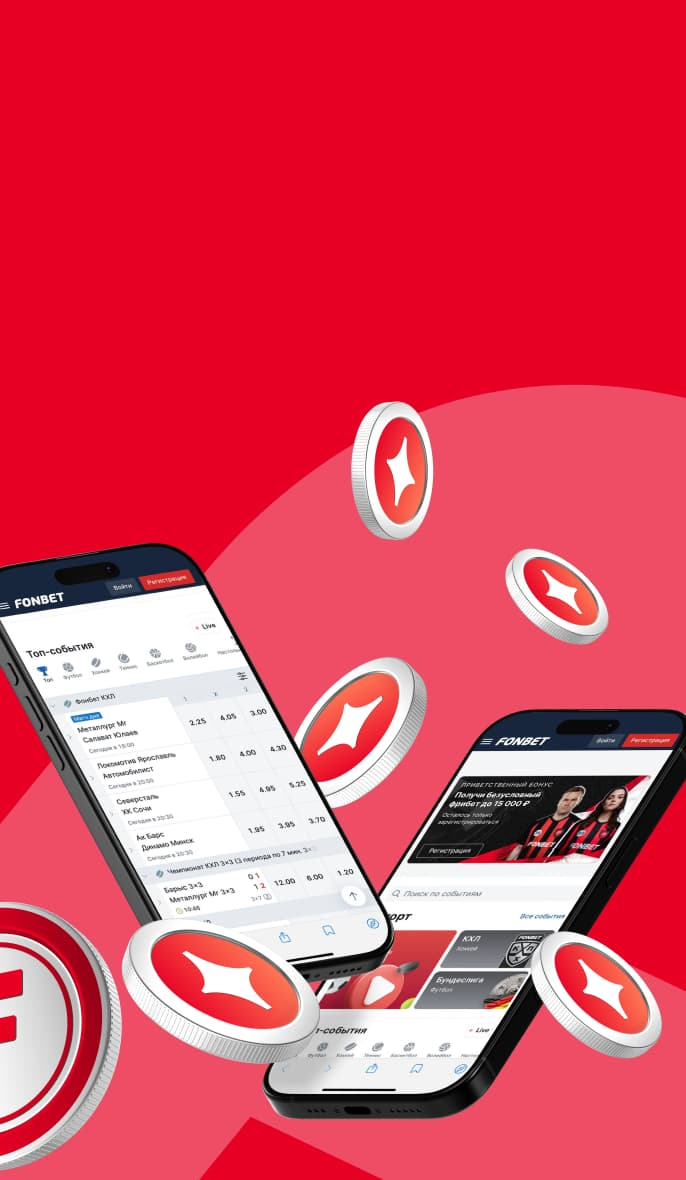
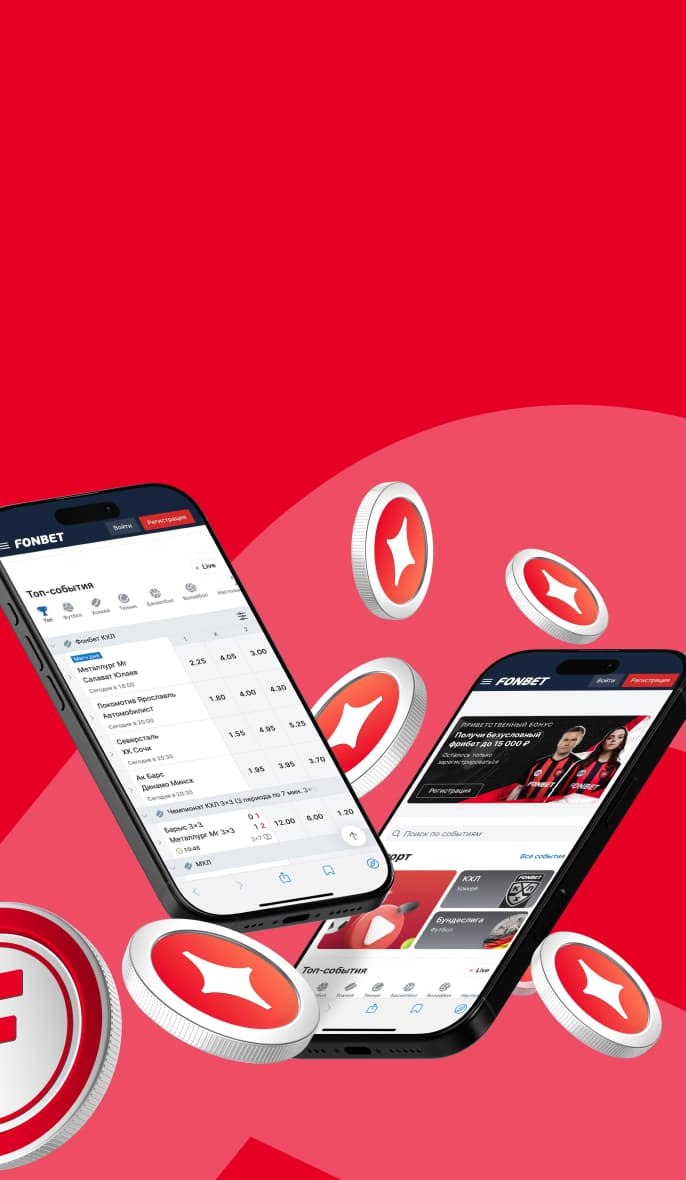
feat: update promo card

Changed region(s): [[0.0, 0.3051, 1.0, 1.0], [0.9184, 0.8237, 1.0, 0.8542], [0.2755, 0.9763, 0.3367, 1.0]]

diff --git a/src/scss/components/block/_b-promo.scss b/src/scss/components/block/_b-promo.scss
@@ -8,7 +8,7 @@
 .b-promo__card {
   position: relative;
   width: 343rem;
-  height: 440rem;
+  height: 480rem;
   overflow: hidden;
   font-size: 24rem;
   line-height: 1.1;
@@ -18,7 +18,7 @@
   border-radius: 14rem;
   @include desktop {
     width: 100%;
-    height: 380rem;
+    height: 400rem;
     font-size: 32rem;
   }
 }
@@ -32,14 +32,15 @@
     width: 100%;
     height: 100%;
     object-fit: cover;
+    object-position: top;
   }
   .desktop {
     display: none;
   }
   @include desktop {
-    img {
-      object-position: top;
-    }
+    // img {
+    //   object-position: top;
+    // }
     .mobile {
       display: none;
     }
@@ -71,14 +72,26 @@
     line-height: 1;
   }
 }
-.b-promo__text {
+.b-promo__subtitle {
   width: 100%;
   max-width: 220rem;
   margin-top: 20rem;
   margin-bottom: 0;
   @include desktop {
     max-width: 600rem;
-    margin-top: 30rem;
+  }
+}
+.b-promo__text {
+  width: 100%;
+  max-width: 260rem;
+  margin-top: 20rem;
+  margin-bottom: 0;
+  font-size: 16rem;
+  line-height: 1.1;
+  @include desktop {
+    max-width: 344rem;
+    margin-top: 20rem;
+    font-size: 18rem;
   }
 }
 .b-promo__btn {
